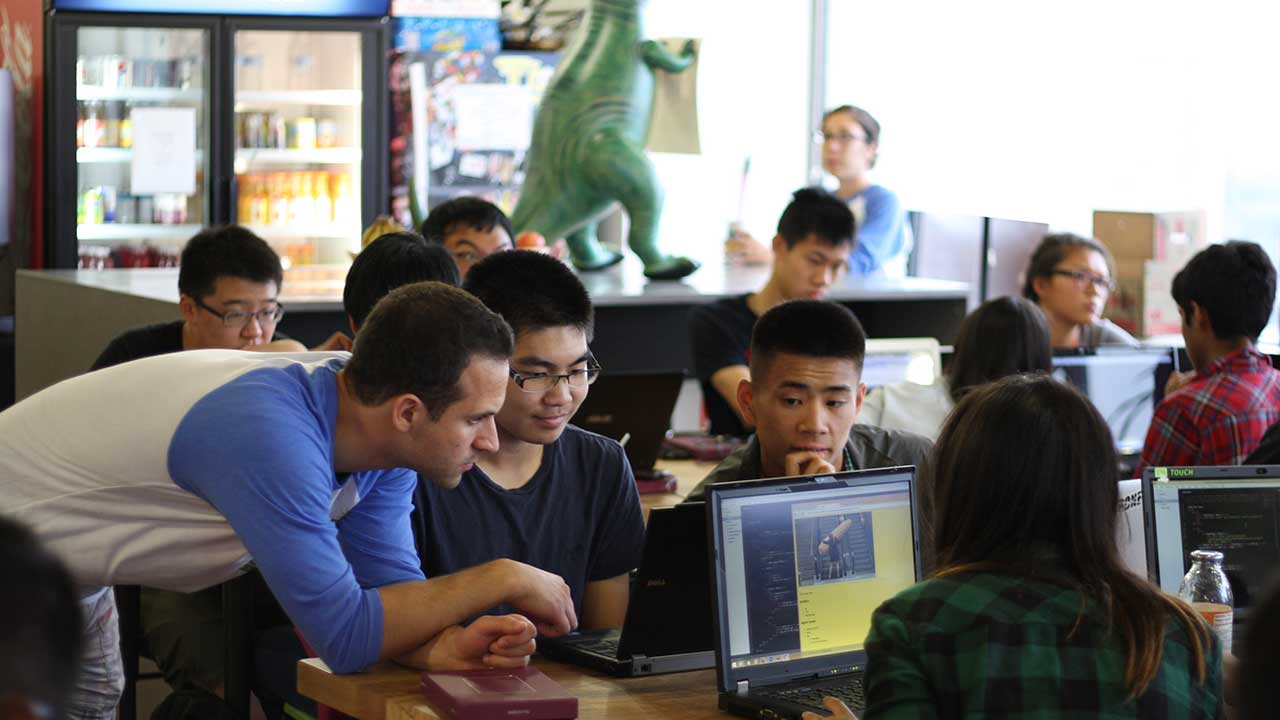
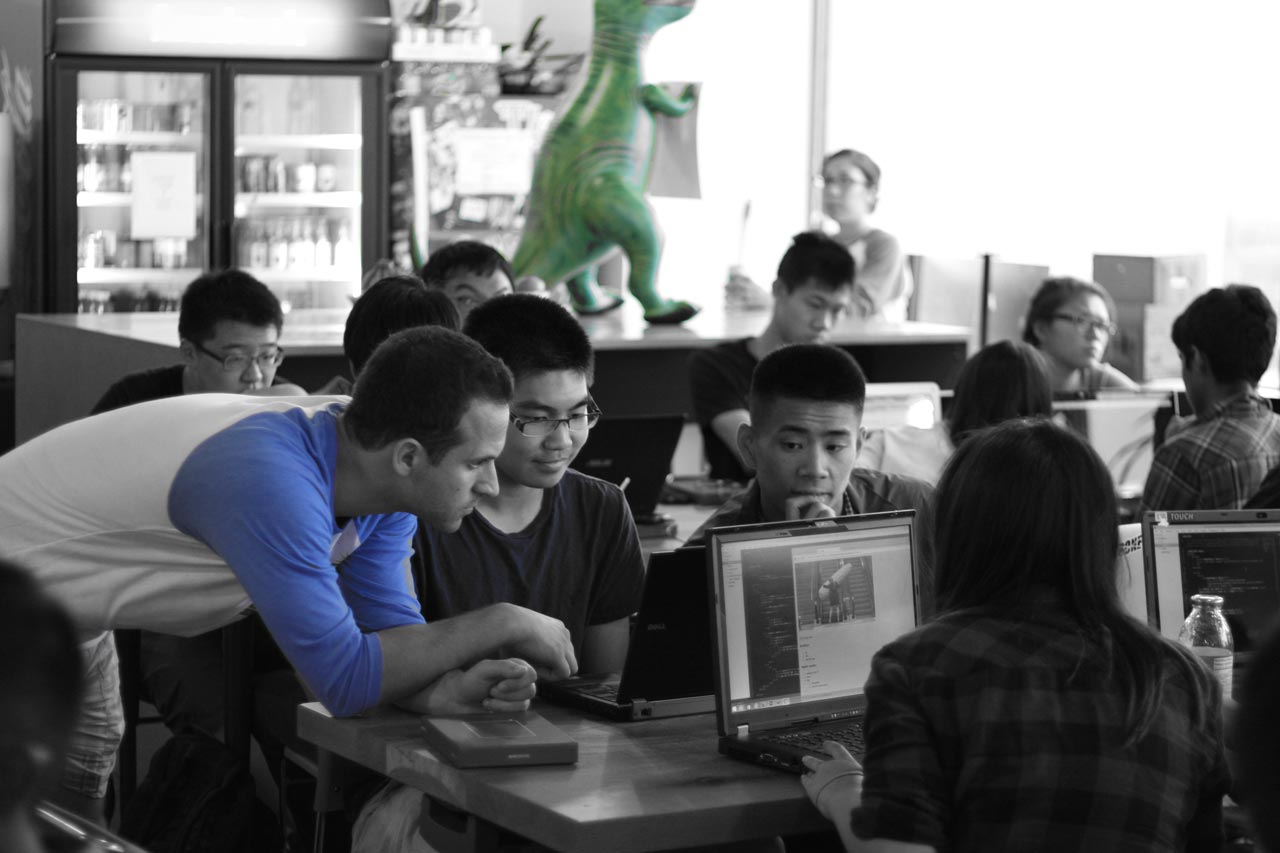
adds bw bgs and changes MQs

diff --git a/app/assets/stylesheets/custom.css.scss b/app/assets/stylesheets/custom.css.scss
@@ -240,6 +240,11 @@ hr.style-three {
     color: #fff;
     box-shadow: 0 6px $blue;    
   }
+  &.grey {
+    background: $lightgrey;
+    color: #000;
+    box-shadow: 0 6px $grey;    
+  }  
 }
 
 /* Button 2a */
@@ -310,6 +315,9 @@ hr.style-three {
   &.blue {
     box-shadow: -6px 0 $blue;    
   }
+  &.grey {
+    box-shadow: -6px 0 $grey;    
+  }    
 }
 
 .bttn-2e:hover {
@@ -320,6 +328,10 @@ hr.style-three {
   &.blue {
     box-shadow: -4px 0 $blue;    
   }
+  &.grey {
+    box-shadow: -4px 0 $grey;    
+    color: #000;
+  }  
 }
 
 .bttn-2e:active {
@@ -335,6 +347,9 @@ hr.style-three {
   &.blue {
     box-shadow: 4px 0 $blue;    
   }
+  &.grey {
+    box-shadow: 4px 0 $grey;    
+  }  
 }
 
 .bttn-2f:hover {
@@ -345,6 +360,10 @@ hr.style-three {
   &.blue {
     box-shadow: 4px 0 $blue;    
   }
+  &.grey {
+    color: #000;
+    box-shadow: 4px 0 $grey;    
+  }  
 }
 
 .bttn-2f:active {
@@ -505,6 +524,9 @@ header {
   h1 {
     padding-top: 15%;
     padding-bottom: 3rem;
+    @media screen and (min-width: 1415px) {
+      padding-top: 8%;
+    }
   }
   h1 {
     color: $white;
@@ -660,7 +682,7 @@ header {
   background-repeat-y: no-repeat;
   background-origin: initial;
   background-clip: initial;
-  min-height: 600px;    
+  min-height: 700px;    
   @include background-size;
   &.web {
     background-image: image-url('hoc-rocc2.jpg');
@@ -674,7 +696,7 @@ header {
   &.mobile {
     background-image: image-url('hoc-david.jpg');   
     @media screen and (min-width:1050px) {
-      background-position-y: 60%;
+      background-position-y: 30%;
     }    
   }
   // &.sr {
@@ -764,6 +786,9 @@ header {
  @media screen and (max-width: 800px) {
   background-position-x: 30%;
  }
+ @media screen and (max-width: 480px) {
+  background-position-y: 80%;
+ }
   &.toronto {
     background-image: url("http://sparkedtech.s3.amazonaws.com/torontoday-reduced.jpg");   
     background-repeat: no-repeat;
@@ -813,8 +838,8 @@ header {
 #logo {
   float: left;
   margin-right: 10px;
-  margin-top: -7px;
-  height: 45px;
+  margin-top: -9px;
+  height: 50px;
   color: $green;
   font-family: $fontregular;
   text-transform: uppercase;
@@ -843,7 +868,7 @@ header {
     .navbar-inverse {
       a {
         @include transition((all, 100ms));        
-        font-size: 17px;
+        font-size: 22px;
         text-transform: uppercase;
         color: $white;     
         span {
@@ -901,31 +926,6 @@ header {
 
 /* Mobile Toggle Icon Color */
 
-.navbar-inverse .navbar-toggle {
-   // color: $blue;
-   // border: 1px solid $lightblue !important;
-   // border-color: $lightblue !important;
-} 
-.navbar-inverse .navbar-toggle .icon-bar:hover, .navbar-inverse .navbar-toggle .icon-bar:focus {
-   // color: $blue !important;
-   // border: 1px solid $lightblue;
-   // background-color: white;
-} 
-.navbar-inverse .navbar-toggle:hover, .navbar-inverse .navbar-toggle:focus {
-  // background-color: $white !important;
-}
-.navbar-toggle {
-  // position: relative;
-  // float: right;
-  // margin-right: 15px;
-  // padding: 9px 10px;
-  // margin-top: 8px;
-  // margin-bottom: 8px;
-  // background-color: transparent;
-  // background-image: none;
-  // border: 1px solid transparent;
-  // border-radius: 4px;
-}
 .navbar-inverse .navbar-toggle .icon-bar {
   background-color: $blue !important;
 }
@@ -950,10 +950,7 @@ header {
 } 
 .navbar-inverse .navbar-nav > li > a{
  color: white;
-  // & .nav-course {
-  //   color: $lightblue !important;
-  //   text-shadow: 0, 0, 0 rgba(0,0,0,0);
-  // }
+ font-size: 18px;
 }
 .navbar-inverse .navbar-nav > li:last-child > a, .navbar-inverse .navbar-nav > li:last-child > a {
   margin-top: 0;

diff --git a/app/assets/stylesheets/programs.css.scss b/app/assets/stylesheets/programs.css.scss
@@ -343,6 +343,9 @@ Main components
       @media screen and (min-width:520px) and (max-width: 767px) {
         min-height: 700px;
       }
+      @media screen and (min-width:768px)  {
+      	background-position-y: 60%;
+      }
       &.mobile {
       	background-image: image-url('hoc-student6.jpg');        	
 		@media screen and (max-width: 1000px) {
